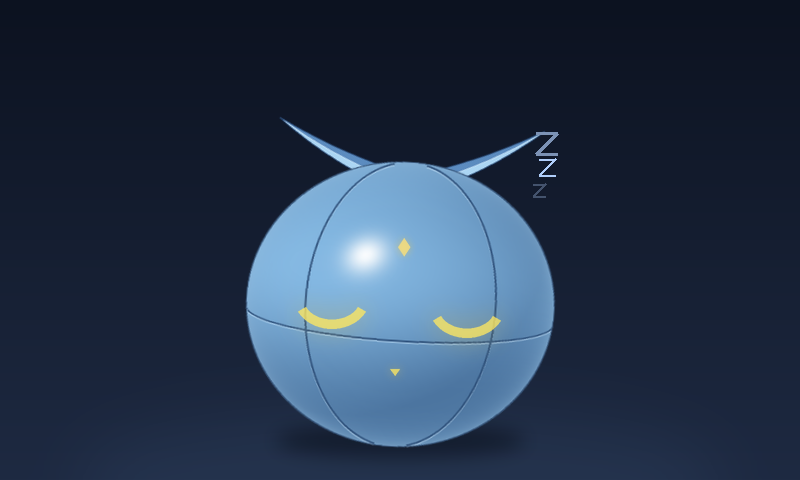
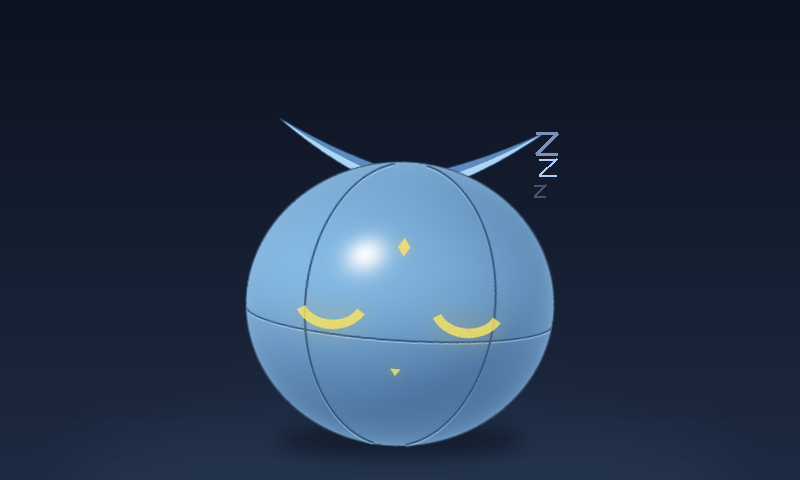
feat(anim): 無聊狀態改為左右滾動（不打滑旋轉、臉部跟轉、陰影跟隨）
- 新增 spin 骨頭：分割線、天線、臉部掛在 spin 上旋轉；球體光影（body.png）不轉
- bored：root.x ±130 px 來回，spin.rot = x/150*180/π，兩端晃動停頓，10 秒無縫循環
- FaceRenderer 依臉部骨頭角度旋轉燈眼／嘴／菱形小圖（2° 量化快取）
- 動畫支援 fade_in/fade_out；bored fade_out 1.0 秒，離開時滾回中間
- 計時覆寫支援「狀態.事件」；示範 GIF 加長並新增 preview/bored.png
- 測試：不打滑、留在畫面內、循環接縫、臉部跟轉、淡出比例

diff --git a/pet/skeleton.py b/pet/skeleton.py
@@ -22,7 +22,8 @@ JSON 格式（詳見 README「骨架格式」）：
 - rest：靜止姿勢的旋轉（度）與縮放。
 - part：掛在骨頭上的零件圖，anchor 是圖片中對齊骨頭原點的像素。
 - 動畫通道：x、y（位移，加在 pivot 上）、rot（旋轉，加在 rest.rot 上）、
-  sx、sy（縮放，乘在 rest 上）。關鍵幀格式 [時間, 數值, 緩動]，
+  sx、sy（縮放，乘在 rest 上）。
+- 動畫可選 fade_in / fade_out：切換時的交叉淡入秒數（預設 0.25）。關鍵幀格式 [時間, 數值, 緩動]，
   緩動是「從這一幀到下一幀」的插值方式：linear（預設）、ease、step。
 """
 
@@ -71,6 +72,11 @@ def mat_inverse(m: Affine) -> Affine:
         raise ValueError("矩陣不可逆")
     ia, ib, id_, ie = e / det, -b / det, -d / det, a / det
     return (ia, ib, -(ia * c + ib * f), id_, ie, -(id_ * c + ie * f))
+
+
+def mat_rotation_deg(m: Affine) -> float:
+    """矩陣的旋轉角（度，y 朝下座標系中順時針為正）。"""
+    return math.degrees(math.atan2(m[3], m[0]))
 
 
 def mat_scale_factor(m: Affine) -> float:
@@ -146,6 +152,8 @@ class Animation:
     duration: float
     loop: bool
     tracks: Dict[str, Dict[str, List[list]]] = field(default_factory=dict)
+    fade_in: Optional[float] = None    # 切進這個動畫的淡入秒數（None = 用預設）
+    fade_out: Optional[float] = None   # 從這個動畫切走的淡出秒數（例如滾動中要慢慢滾回來）
 
     def sample(self, t: float) -> Dict[str, Dict[str, float]]:
         """回傳 {骨頭: {通道: 值}}（值是相對 rest 的偏移／倍率）。"""
@@ -208,8 +216,9 @@ class Skeleton:
                     if ch not in CHANNELS:
                         raise ValueError(f"動畫 {name} 有未知通道 {ch}")
                     tracks[bone][ch] = sorted(keys, key=lambda k: k[0])
-            self.animations[name] = Animation(name, float(a.get("duration", 1.0)),
-                                              bool(a.get("loop", True)), tracks)
+            self.animations[name] = Animation(
+                name, float(a.get("duration", 1.0)), bool(a.get("loop", True)), tracks,
+                fade_in=a.get("fade_in"), fade_out=a.get("fade_out"))
         self.face = data.get("face", {})
         self.effects = data.get("effects", {})
 
@@ -258,6 +267,7 @@ class AnimationPlayer:
         self.prev: Optional[str] = None
         self.prev_time = 0.0
         self.fade_t = 1.0
+        self.cur_fade = fade
 
     def play(self, name: str, restart: bool = False) -> None:
         if name not in self.skeleton.animations:
@@ -267,12 +277,19 @@ class AnimationPlayer:
         self.prev, self.prev_time = self.current, self.time
         self.current, self.time = name, 0.0
         self.fade_t = 0.0 if self.prev else 1.0
+        # 這次切換的淡入時間：取預設、新動畫 fade_in、舊動畫 fade_out 中最長的
+        anims = self.skeleton.animations
+        cands = [self.fade, anims[name].fade_in]
+        if self.prev in anims:
+            cands.append(anims[self.prev].fade_out)
+        self.cur_fade = max(float(c) for c in cands if c is not None)
 
     def update(self, dt: float) -> None:
         self.time += dt
         self.prev_time += dt
-        if self.fade > 0:
-            self.fade_t = min(1.0, self.fade_t + dt / self.fade)
+        fade = getattr(self, "cur_fade", self.fade)
+        if fade > 0:
+            self.fade_t = min(1.0, self.fade_t + dt / fade)
         else:
             self.fade_t = 1.0
 

diff --git a/tests/test_skeleton.py b/tests/test_skeleton.py
@@ -129,3 +129,76 @@ class SeedAssetTest(unittest.TestCase):
 
 if __name__ == "__main__":
     unittest.main()
+
+
+class BoredRollingTest(unittest.TestCase):
+    """無聊＝滾動：不打滑、留在畫面內、循環接得上、淡出不跳。"""
+
+    @classmethod
+    def setUpClass(cls):
+        cls.sk = Skeleton.load(os.path.join(ROOT, "assets", "skeletons", "seed.json"), load_images=False)
+        cls.anim = cls.sk.animations["bored"]
+
+    def times(self, step=0.02):
+        n = int(self.anim.duration / step)
+        return [i * step for i in range(n + 1)]
+
+    def test_rolling_without_slipping(self):
+        import math
+        for t in self.times():
+            p = self.anim.sample(t)
+            x, rot = p["root"]["x"], p["spin"]["rot"]
+            self.assertAlmostEqual(rot, x / 150.0 * 180.0 / math.pi, delta=0.01, msg=f"t={t}")
+
+    def test_actually_rolls_both_ways(self):
+        xs = [self.anim.sample(t)["root"]["x"] for t in self.times()]
+        self.assertGreater(max(xs), 100)
+        self.assertLess(min(xs), -100)
+
+    def test_loop_seamless(self):
+        a, b = self.anim.sample(0.0), self.anim.sample(self.anim.duration - 1e-6)
+        for bone, chans in a.items():
+            for ch, v in chans.items():
+                self.assertAlmostEqual(v, b[bone][ch], places=3, msg=f"{bone}.{ch}")
+        self.assertAlmostEqual(a["spin"]["rot"], 0.0)
+        self.assertAlmostEqual(a["root"]["x"], 0.0)
+
+    def test_stays_on_screen(self):
+        W, H = self.sk.canvas
+        for t in self.times(0.05):
+            w = self.sk.world_transforms(self.anim.sample(t))
+            cx, cy = mat_apply(w["body"], 0, 0)
+            r = 150 * 1.03
+            self.assertTrue(r <= cx <= W - r and r <= cy <= H - r + 20, f"球出界 t={t} ({cx:.0f},{cy:.0f})")
+            for name in ("antenna_l", "antenna_r"):
+                bone = self.sk.bones[name]
+                ax, ay = bone.part.anchor
+                # 零件圖四個角都要在畫面內（天線尖端最遠）
+                for px, py in ((0, 0), (44, 0), (0, 118), (44, 118)):
+                    x, y = mat_apply(w[name], px - ax, py - ay)
+                    self.assertTrue(0 <= x <= W and 0 <= y <= H, f"{name} 出界 t={t} ({x:.0f},{y:.0f})")
+
+    def test_face_rotates_with_body(self):
+        import math
+        t = 1.5
+        p = self.anim.sample(t)
+        w = self.sk.world_transforms(p)
+        ang = math.degrees(math.atan2(w["face"][3], w["face"][0]))
+        # root 有輕微非等比縮放（呼吸），角度會差一點點
+        self.assertAlmostEqual(ang, p["spin"]["rot"], delta=2.0)
+        self.assertGreater(abs(ang), 10)
+
+    def test_crossfade_out_keeps_ratio(self):
+        """bored → sleep 的淡出期間，位移和旋轉一起線性混合 → 還是不打滑地滾回來。"""
+        import math
+        pl = AnimationPlayer(self.sk)
+        pl.play("bored")
+        pl.update(2.0)                 # 滾到右邊附近
+        pl.play("sleep")
+        self.assertGreaterEqual(pl.cur_fade, 1.0)  # 用 bored 的 fade_out
+        for _ in range(10):
+            pl.update(0.1)
+            p = pl.pose()
+            x, rot = p["root"].get("x", 0), p["spin"].get("rot", 0)
+            self.assertAlmostEqual(rot, x / 150.0 * 180.0 / math.pi, delta=0.05)
+        self.assertAlmostEqual(pl.pose()["root"].get("x", 0), 0.0, places=6)

diff --git a/pet/eyes.py b/pet/eyes.py
@@ -15,7 +15,7 @@ from typing import Dict, Optional, Tuple
 
 from PIL import Image, ImageDraw, ImageFilter
 
-from .skeleton import Affine, mat_apply, mat_scale_factor
+from .skeleton import Affine, mat_apply, mat_rotation_deg, mat_scale_factor
 
 # 顏色（燈眼黃）
 CORE = (255, 232, 96)
@@ -146,7 +146,7 @@ class EyeController:
 class FaceRenderer:
     """畫燈眼、額頭菱形、嘴巴。座標都是臉部骨頭的局部座標。"""
 
-    def __init__(self, face_cfg: dict, cache_size: int = 96):
+    def __init__(self, face_cfg: dict, cache_size: int = 400):
         self.cfg = face_cfg
         self.eye_r = float(face_cfg.get("eye_radius", 42))
         self.eye_pos = [tuple(p) for p in face_cfg.get("eyes", [[-66, 8], [66, 8]])]
@@ -255,6 +255,15 @@ class FaceRenderer:
             return self._glowify(core, glow_q / 10.0, blur=s * 0.3, core=(255, 226, 120))
         return self._cached(("diamond", s, glow_q), make)
 
+    ROT_STEP = 2   # 旋轉角量化（度），讓旋轉後的小圖可以快取
+
+    def _rotated(self, key, sprite: Image.Image, angle_q: int) -> Image.Image:
+        """跟著身體轉（滾動時燈眼、嘴、菱形一起轉）。"""
+        if angle_q % 360 == 0:
+            return sprite
+        return self._cached(("rot", key, angle_q),
+                            lambda: sprite.rotate(-angle_q, resample=Image.BICUBIC, expand=True))
+
     @staticmethod
     def _paste_center(frame: Image.Image, sprite: Image.Image, x: float, y: float) -> None:
         w, h = sprite.size
@@ -267,14 +276,18 @@ class FaceRenderer:
         open_q = int(round(st.open * 20))
         dx = st.look_x * self.look_px
         dy = st.look_y * self.look_px * 0.6
+        # 位置用臉部骨頭的矩陣換算（含旋轉），小圖本身也依同一角度轉
+        angle_q = int(round(mat_rotation_deg(face_world) / self.ROT_STEP)) * self.ROT_STEP
         # 額頭菱形
+        ds = max(4, int(round(12 * scale)))
         x, y = mat_apply(face_world, self.diamond_pos[0] + dx * 0.3, self.diamond_pos[1])
-        self._paste_center(frame, self._diamond_sprite(max(4, int(round(12 * scale))), glow_q), x, y)
+        self._paste_center(frame, self._rotated(("diamond", ds, glow_q), self._diamond_sprite(ds, glow_q), angle_q), x, y)
         # 兩顆燈眼
-        eye = self._eye_sprite(st.shape, open_q, glow_q, r)
+        eye = self._rotated(("eye", st.shape, open_q, glow_q, r), self._eye_sprite(st.shape, open_q, glow_q, r), angle_q)
         for ex, ey in self.eye_pos:
             x, y = mat_apply(face_world, ex + dx, ey + dy)
             self._paste_center(frame, eye, x, y)
         # 嘴巴
+        ms = max(3, int(round(13 * scale)))
         x, y = mat_apply(face_world, self.mouth_pos[0] + dx * 0.6, self.mouth_pos[1] + dy * 0.4)
-        self._paste_center(frame, self._mouth_sprite(st.mouth, glow_q, max(3, int(round(13 * scale)))), x, y)
+        self._paste_center(frame, self._rotated(("mouth", st.mouth, glow_q, ms), self._mouth_sprite(st.mouth, glow_q, ms), angle_q), x, y)

diff --git a/tools/gen_seed_parts.py b/tools/gen_seed_parts.py
@@ -1,7 +1,7 @@
 #!/usr/bin/env python3
 """產生第一階段「種子」的零件圖（可重複產生，結果固定）。
 
-輸出：assets/parts/seed/body.png、antenna_l.png、antenna_r.png
+輸出：assets/parts/seed/body.png（球體光影）、seams.png（分割線）、antenna_l.png、antenna_r.png
 用法：python3 tools/gen_seed_parts.py
 只需要 Pillow，不需要 numpy。
 """
@@ -26,7 +26,8 @@ def lerp(a, b, t):
     return tuple(int(round(a[i] + (b[i] - a[i]) * t)) for i in range(3))
 
 
-def make_body() -> Image.Image:
+def make_body():
+    """回傳 (shell, seams)：shell 是有光影的球（不跟著滾動轉），seams 是分割線（滾動時會轉）。"""
     size = (R + PAD) * 2 * SS
     c = size / 2
     rad = R * SS
@@ -85,8 +86,9 @@ def make_body() -> Image.Image:
     hl = ImageChops.subtract(hl, seams)
     hl_layer = Image.new("RGBA", (size, size), (200, 228, 250, 0))
     hl_layer.putalpha(hl.point(lambda v: int(v * 0.45)))
-    img.alpha_composite(hl_layer)
-    img.alpha_composite(seam_layer)
+    seam_img = Image.new("RGBA", (size, size), (0, 0, 0, 0))
+    seam_img.alpha_composite(hl_layer)
+    seam_img.alpha_composite(seam_layer)
 
     # 柔和的深色外框
     alpha = img.getchannel("A")
@@ -94,7 +96,8 @@ def make_body() -> Image.Image:
     edge_layer = Image.new("RGBA", (size, size), (28, 52, 86, 0))
     edge_layer.putalpha(edge.point(lambda v: int(v * 0.7)))
     img.alpha_composite(edge_layer)
-    return img.resize((size // SS, size // SS), Image.LANCZOS)
+    small = (size // SS, size // SS)
+    return img.resize(small, Image.LANCZOS), seam_img.resize(small, Image.LANCZOS)
 
 
 def make_antenna() -> Image.Image:
@@ -123,8 +126,9 @@ def make_antenna() -> Image.Image:
 
 def main():
     os.makedirs(OUT, exist_ok=True)
-    body = make_body()
+    body, seams = make_body()
     body.save(os.path.join(OUT, "body.png"))
+    seams.save(os.path.join(OUT, "seams.png"))
     ant = make_antenna()
     ant.save(os.path.join(OUT, "antenna_l.png"))
     ant.transpose(Image.FLIP_LEFT_RIGHT).save(os.path.join(OUT, "antenna_r.png"))

diff --git a/tools/render_demo.py b/tools/render_demo.py
@@ -1,10 +1,10 @@
 #!/usr/bin/env python3
 """離線算出示範動畫（模擬時鐘，結果可重現），不需要螢幕。
 
-流程：idle → 摸頭 → happy → 回 idle → 閒置逾時 → bored → sleep → 摸頭 → 醒來 idle
+流程：idle → 摸頭 → happy → 回 idle → 閒置逾時 → bored（左右滾動一整圈）→ sleep → 摸頭 → 醒來 idle
 輸出：
   preview/demo.gif（400×240，10 fps）
-  preview/idle.png、preview/happy.png、preview/sleep.png（800×480 原尺寸）
+  preview/idle.png、preview/happy.png、preview/bored.png（滾動中）、preview/sleep.png（800×480 原尺寸）
 用法：python3 tools/render_demo.py
 """
 
@@ -22,14 +22,15 @@ from pet.outputs import GifSink  # noqa: E402
 
 FPS = 20
 IDLE_TIMEOUT = 3.0   # 示範用：閒置 3 秒就逾時（正式設定是 600 秒）
+BORED_TIMEOUT = 10.5  # 示範用：無聊滾完一整圈（10 秒）再睡
 
 # (時間, 事件)
 SCRIPT = [
     (2.0, make_event("touch", "pat", source="demo")),
-    (14.5, make_event("touch", "pat", source="demo")),
+    (22.0, make_event("touch", "pat", source="demo")),
 ]
-STILLS = {"idle.png": 1.0, "happy.png": 2.6, "sleep.png": 13.0}
-END = 17.5
+STILLS = {"idle.png": 1.0, "happy.png": 2.6, "bored.png": 9.4, "sleep.png": 21.0}
+END = 25.0
 
 
 def font(size):
@@ -42,7 +43,7 @@ def font(size):
 def main():
     out_dir = os.path.join(ROOT, "preview")
     os.makedirs(out_dir, exist_ok=True)
-    app = PetApp(timer_overrides={"idle_timeout": IDLE_TIMEOUT}, use_clock=False, eye_seed=7)
+    app = PetApp(timer_overrides={"idle_timeout": IDLE_TIMEOUT, "bored.idle_timeout": BORED_TIMEOUT}, use_clock=False, eye_seed=7)
     app.start()
     # 每格先縮成 400×240 再加字幕，所以 GifSink 不再縮放；每 2 格留 1 格 → 10 fps
     gif = GifSink(os.path.join(out_dir, "demo.gif"), fps=FPS, keep_every=2, scale=None)

diff --git a/pet/state_machine.py b/pet/state_machine.py
@@ -96,7 +96,9 @@ class StateMachine:
     def _reset_timers(self) -> None:
         self._timers = []
         for t in self.states[self.state].get("timers", []):
-            after = float(self.timer_overrides.get(t["event"], t["after"]))
+            # 覆寫順序：「狀態.事件」 > 「事件」 > 設定檔
+            key = f"{self.state}.{t['event']}"
+            after = float(self.timer_overrides.get(key, self.timer_overrides.get(t["event"], t["after"])))
             self._timers.append({"after": after, "event": t["event"], "elapsed": 0.0,
                                  "fired": False, "reset_on_input": t.get("reset_on_input", True)})
 

diff --git a/tools/bench.py b/tools/bench.py
@@ -39,7 +39,7 @@ def run(seconds: float, jpeg: bool, state: str) -> float:
 def main():
     secs = float(sys.argv[1]) if len(sys.argv) > 1 else 4.0
     print(f"Python {sys.version.split()[0]}，每項量 {secs:.0f} 秒")
-    for state in ("idle", "happy", "sleep"):
+    for state in ("idle", "happy", "bored", "sleep"):
         f1, _ = run(secs, False, state)
         f2, sz = run(secs, True, state)
         print(f"{state:6s} 純繪圖 {f1:6.1f} fps | 繪圖+JPEG {f2:6.1f} fps（每格 {sz / 1024:.0f} KB）")

diff --git a/PROPOSAL.md b/PROPOSAL.md
@@ -2,7 +2,7 @@
 
 > 最後更新：2026-10-28　｜　狀態：第一期規劃定稿，細節持續補充
 >
-> v1.1：新增「外部控制器接口」（輪子、雲台，只預留）與「內部控制器：網頁遙控」；架構圖、MVP 清單同步更新。
+> v1.1：新增「外部控制器接口」（輪子、雲台，只預留）與「內部控制器：網頁遙控」；架構圖、MVP 清單同步更新。無聊狀態的表現改為左右滾動。
 
 ## 1. 專案目標
 做一隻放在桌上的實體桌寵：有小螢幕顯示表情動畫，能跟人互動。先在樹莓派上做出原型（之後也會試 ESP32），再比較哪個平台比較適合承載。
@@ -54,6 +54,7 @@
 - 表情主要靠燈眼：眨眼、瞇眼、睜大、閉眼睡覺、眼神左右看
 - 天線可以搖擺、彈動，表示開心或驚訝
 - 球體可以輕微上下浮動，看起來像在呼吸
+- 無聊時會在螢幕上左右**滾動**：球身（分割線）、天線、燈眼、嘴巴、額頭菱形一起跟著轉，像真的在地上滾（不打滑），滾到邊邊晃一晃、停一下再滾回來；光影與地面陰影不轉、陰影跟著球移動
 
 ## 3. 硬體與平台
 
@@ -140,7 +141,7 @@ flowchart LR
 | 目前狀態 | 事件 | 下一個狀態 |
 |---|---|---|
 | 待機 | 被摸 | 開心 |
-| 待機 | 閒置 10 分鐘 | 無聊 |
+| 待機 | 閒置 10 分鐘 | 無聊（左右滾動） |
 | 無聊 | 閒置 10 分鐘 | 睡覺 |
 | 睡覺 | 被摸 | 待機（醒來） |
 
